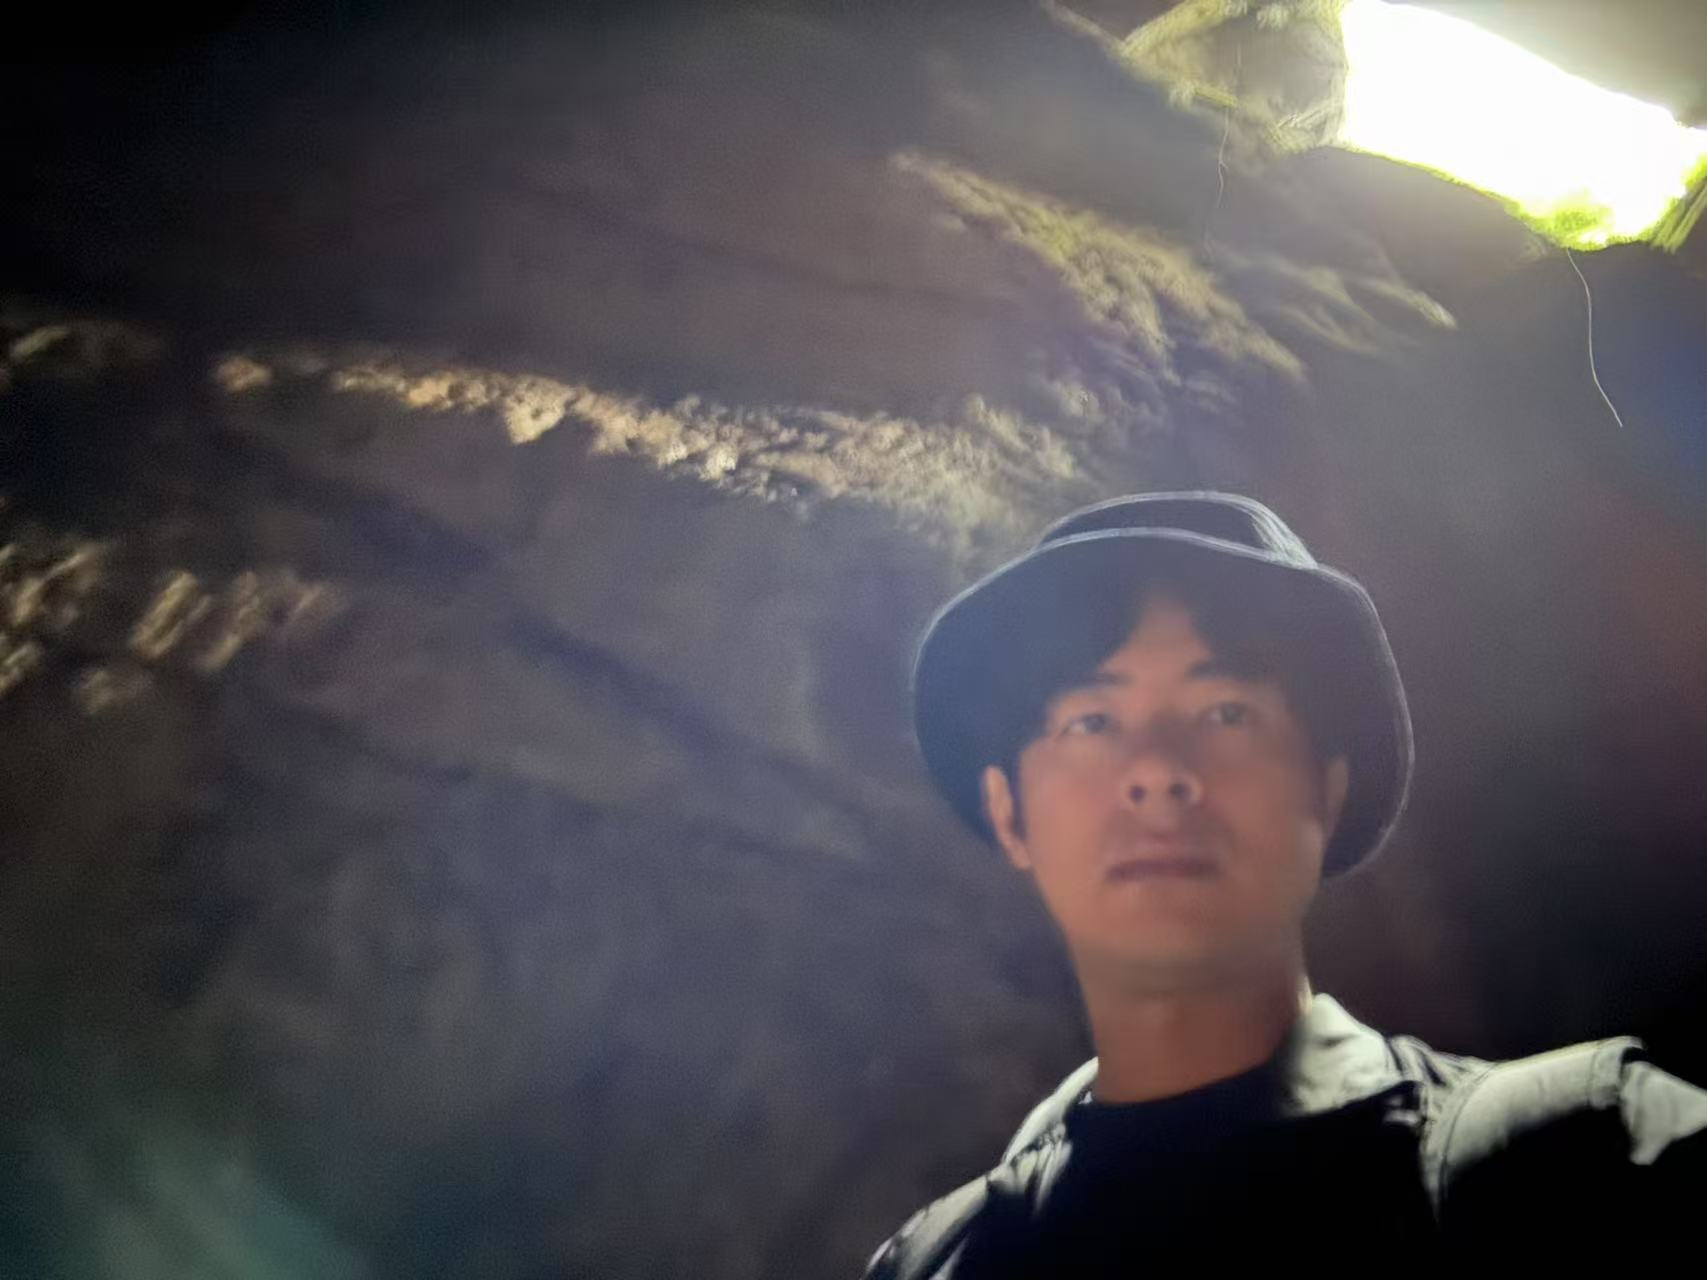
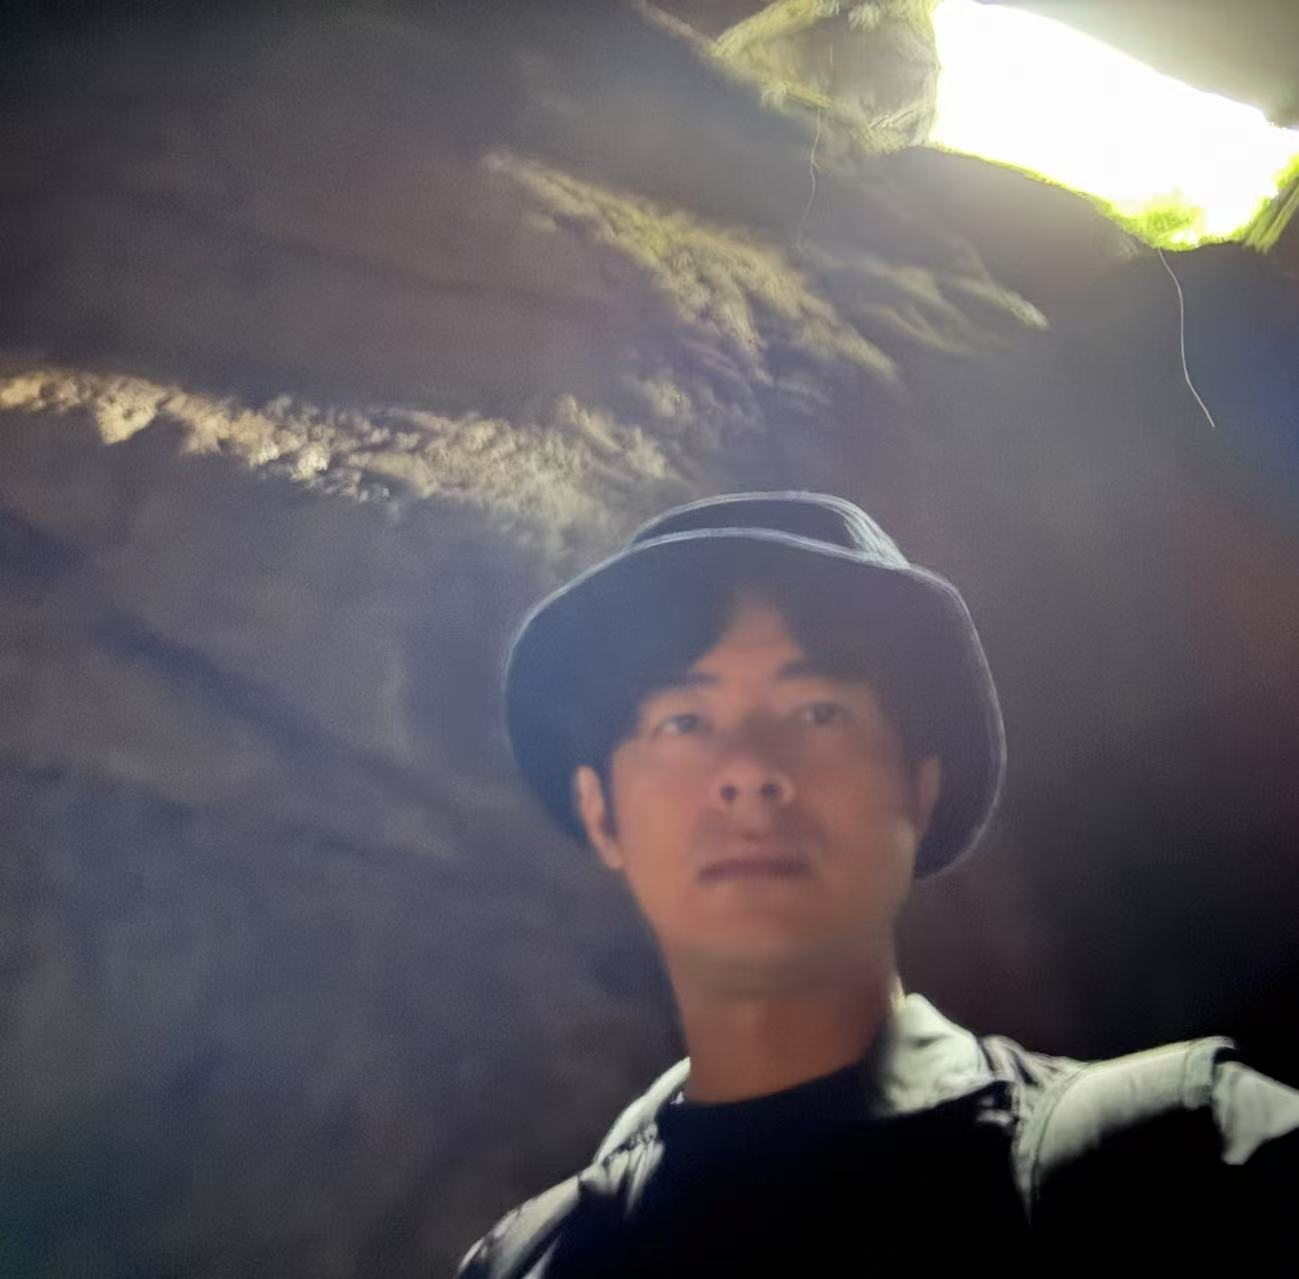
add select

diff --git a/_pages/about.md b/_pages/about.md
@@ -14,7 +14,7 @@ selected_papers: true # includes a list of papers marked as "selected={true}"
 social: true # includes social icons at the bottom of the page
 
 announcements:
-  enabled: true # includes a list of news items
+  enabled: false # includes a list of news items
   scrollable: true # adds a vertical scroll bar if there are more than 3 news items
   limit: 5 # leave blank to include all the news in the `_news` folder
 
